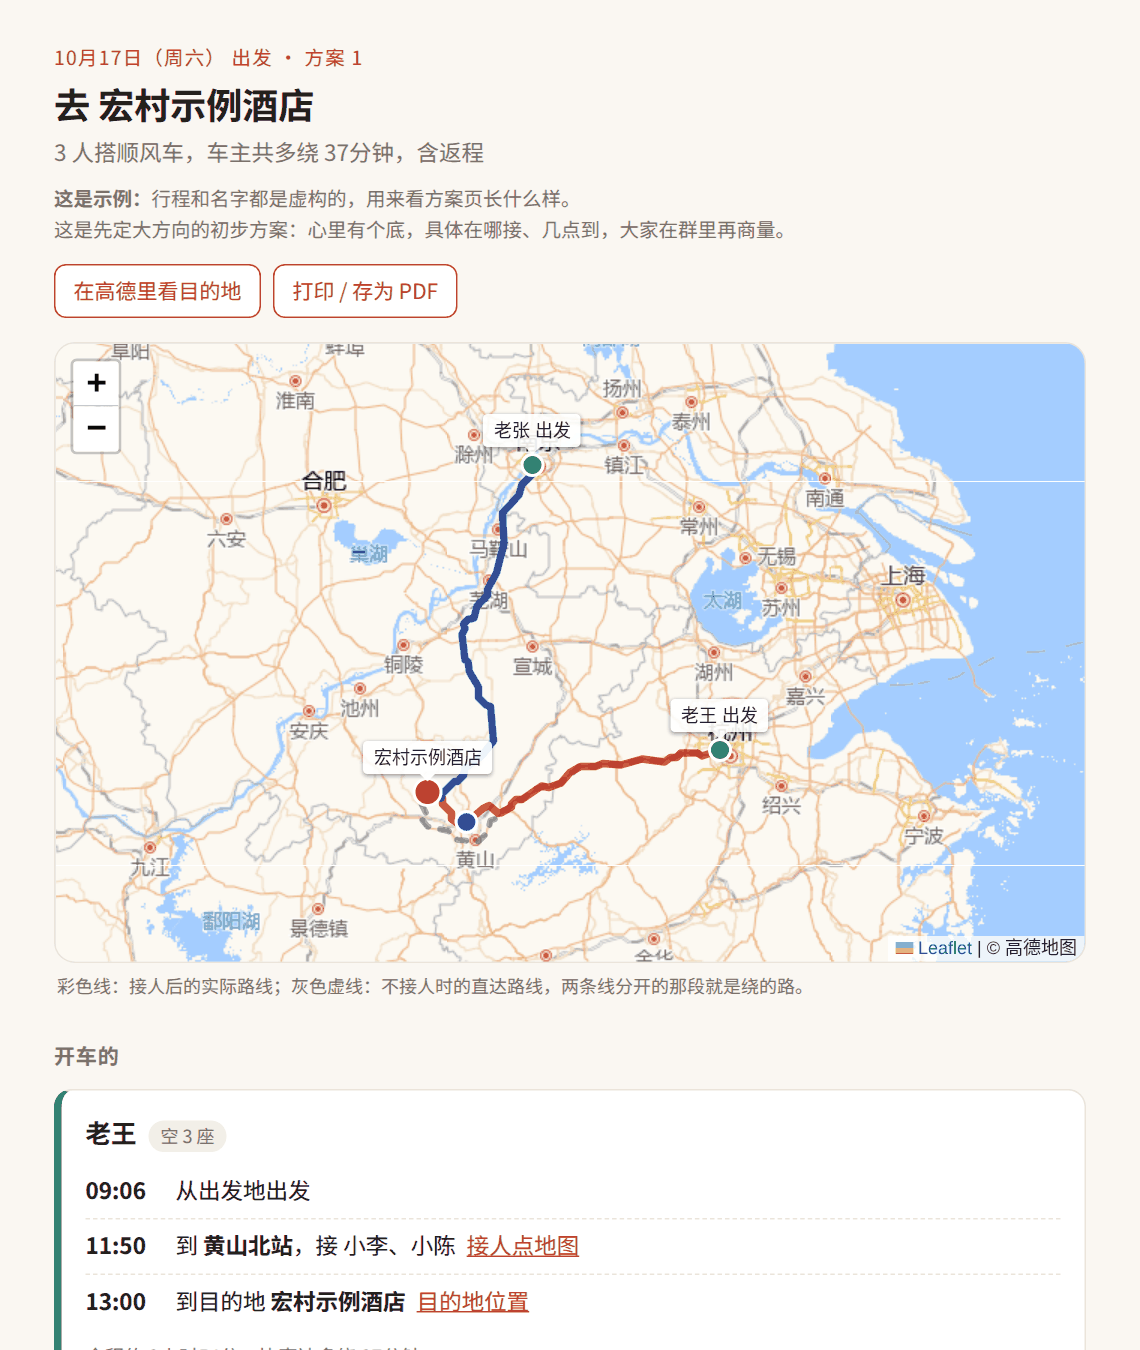
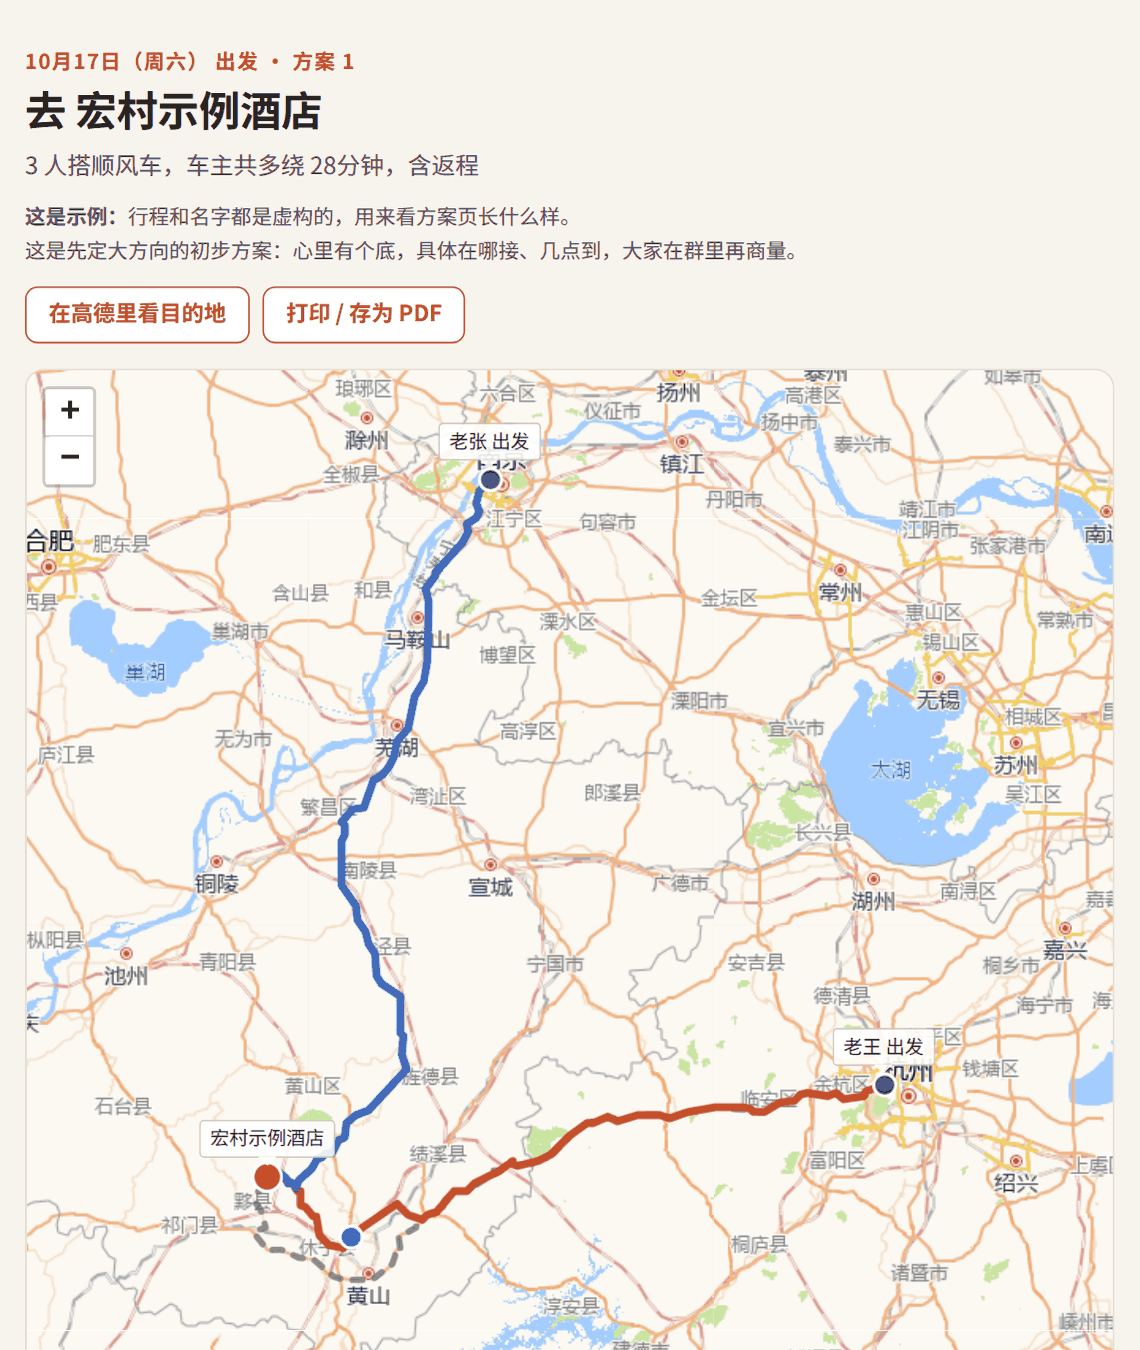
v3.2：首页效果图换成新模板、更新记录定稿、计划完成情况

diff --git a/docs/v3.2-plan.md b/docs/v3.2-plan.md
@@ -203,3 +203,19 @@
 - 主要文字的对比度达到 AA。
 - 结构化数据合法，并和页面文字一致；`sitemap` 覆盖所有可收录页面。
 - 上线后线上再跑一遍；打 `v3.2.0` 标签，发布 GitHub Release。
+
+## 完成情况（2026-10-08）
+
+| 切片 | 状态 | 验收 |
+|---|---|---|
+| E1 设计系统与静态站点 | 完成 | 构建时校验 JSON-LD、FAQ 和 HowTo 文字一致、站内链接、对比度；10 个可收录页面在桌面和手机、深色和浅色下没有溢出、没有 CSP 和 JS 错误 |
+| E3 后端统计、自托管依赖、发布 | 完成 | Worker 单元测试；编辑页从 `/vendor/` 加载 Pyodide、Leaflet、marked；页面访问、来源、`from` 参数、AI 爬虫计数实测 |
+| E2 编辑页、方案页模板、管理页统计 | 完成 | 编辑页完整流程 38 项，含手机分页签、页内弹窗（原生对话框调用 0 次）、编辑口令、应急开关；`TRIP_GONE`、加载失败的兜底、重名和格式校验由子代理实测 |
+
+- 执行：三个 Sonnet 子代理；主代理审查、合并（解决了 `build.mjs` 一处冲突），并跑了验收。
+- 合并后单元测试：Node 68 项、Python 66 项。
+- 首页效果图用新模板的示例页重新截取。
+- 已知限制：
+  - 只测了 Chromium；
+  - 取名、编辑口令、额度这几个遮罩没有焦点陷阱；
+  - 编辑页在日期等字段失焦时会整表重绘，可能吞掉紧接着的一次点击。这是旧问题，留到下一轮。

diff --git a/CHANGELOG.md b/CHANGELOG.md
@@ -2,7 +2,7 @@
 
 拼车出行规划的版本记录，新的在前。日期取自 Git 提交记录。标了「不兼容」的条目，自部署的人升级前要看一下，具体做法见 README 的「自部署升级」。
 
-## 3.2.0（未发布）
+## 3.2.0（2026-10-08）
 - 服务端汇总统计：按北京时间按天统计页面访问、爬虫、来源域名和 `?from=` 参数、新建行程（邀请码、自带 Key、管理页）、当天有计算的行程数、发布方案页次数、方案页打开次数；只记次数，不记 IP 和完整地址，不用 Cookie，保留 35 天；`/api/admin/stats` 返回近 30 天。
 - 编辑页的计算环境（Pyodide）、地图（Leaflet）和 Markdown 渲染（marked）改为随站点自己托管（`/vendor/`），构建时下载固定版本并校验 sha256，不再依赖 jsDelivr 和 cdnjs；编辑页的内容安全策略相应收紧。
 - 不兼容：构建（`npm run build`、`npm run deploy`）第一次需要联网下载约 13 MB 的依赖，缓存在 `.cache/`；下载失败或校验不对会让构建报错。
